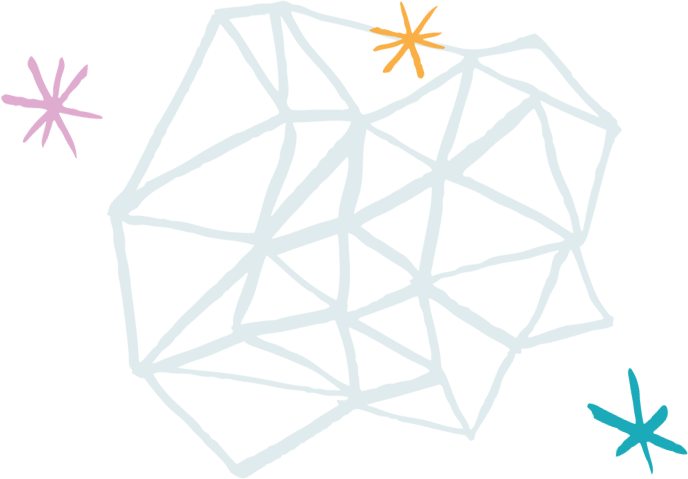
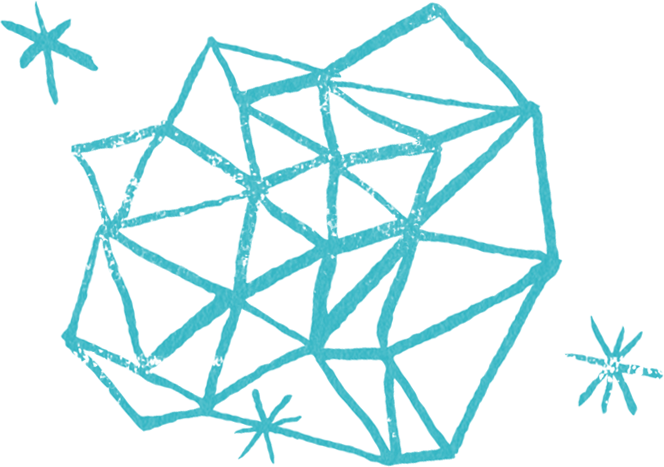
homepage hero second state

diff --git a/src/components/molecules/Hero.js b/src/components/molecules/Hero.js
@@ -14,7 +14,6 @@ import dots from './../../../static/img/homepage-hero/dot_pattern.png';
 import drops from './../../../static/img/homepage-hero/drops.png';
 import eye from './../../../static/img/homepage-hero/eye.png';
 import paint from './../../../static/img/homepage-hero/large_paint.png';
-import matrix from './../../../static/img/homepage-hero/matrix.png';
 import plant from './../../../static/img/homepage-hero/plant.png';
 import paintbrush from './../../../static/img/homepage-hero/paintbrush.png';
 import blob from './../../../static/img/homepage-hero/pink_blob.png';
@@ -27,6 +26,9 @@ import whiteDots from './../../../static/img/homepage-hero/white_dots.png';
 import eyeDoodles from './../../../static/img/homepage-hero/eye_doodles.png';
 import blueBlob from './../../../static/img/homepage-hero/blue_blob.png';
 import pinkBlob from './../../../static/img/homepage-hero/pink_blob.png';
+
+import matrix from './../../../static/img/homepage-hero/matrix.png';
+import greenPaint from './../../../static/img/homepage-hero/green_screenpaint.png';
 
 const Hero = class extends React.Component {
   constructor(props) {
@@ -84,10 +86,14 @@ const Hero = class extends React.Component {
         {/* <img className = "o-hero__background -terrazo" src = { tear } /> */}
         {/* <img className = "o-hero__background -terrazo" src = { whiteDots } /> */}
 
-        <div className = "o-hero__background-group">
-          {/* <img className = "o-hero__background -blue-blob" src = { blueBlob } /> */}
+        {/* <div className = "o-hero__background-group">
           <img className = "o-hero__background -pink-blob" src = { pinkBlob } />
           <img className = "o-hero__background -eye-doodles" src = { eyeDoodles } />
+        </div> */}
+
+        <div className = "o-hero__background-group">
+          <img className = "o-hero__background -green-paint" src = { greenPaint } />
+          <img className = "o-hero__background -matrix" src = { matrix } />
         </div>
 
         <div className="o-rhythm__container">

diff --git a/src/assets/scss/03_organism/_hero.scss b/src/assets/scss/03_organism/_hero.scss
@@ -208,6 +208,21 @@
             }
         }
 
+        &.-matrix {
+            right: 80px;
+            top: 60px;
+            display: none;
+
+            @include breakpoints("tablet") {
+                display: block;
+            }
+        }
+
+        &.-green-paint {
+            top: 0;
+            right: 0;
+        }
+
         // &.-jigglydoo {
         //     right: auto;
         //     left: 0;
